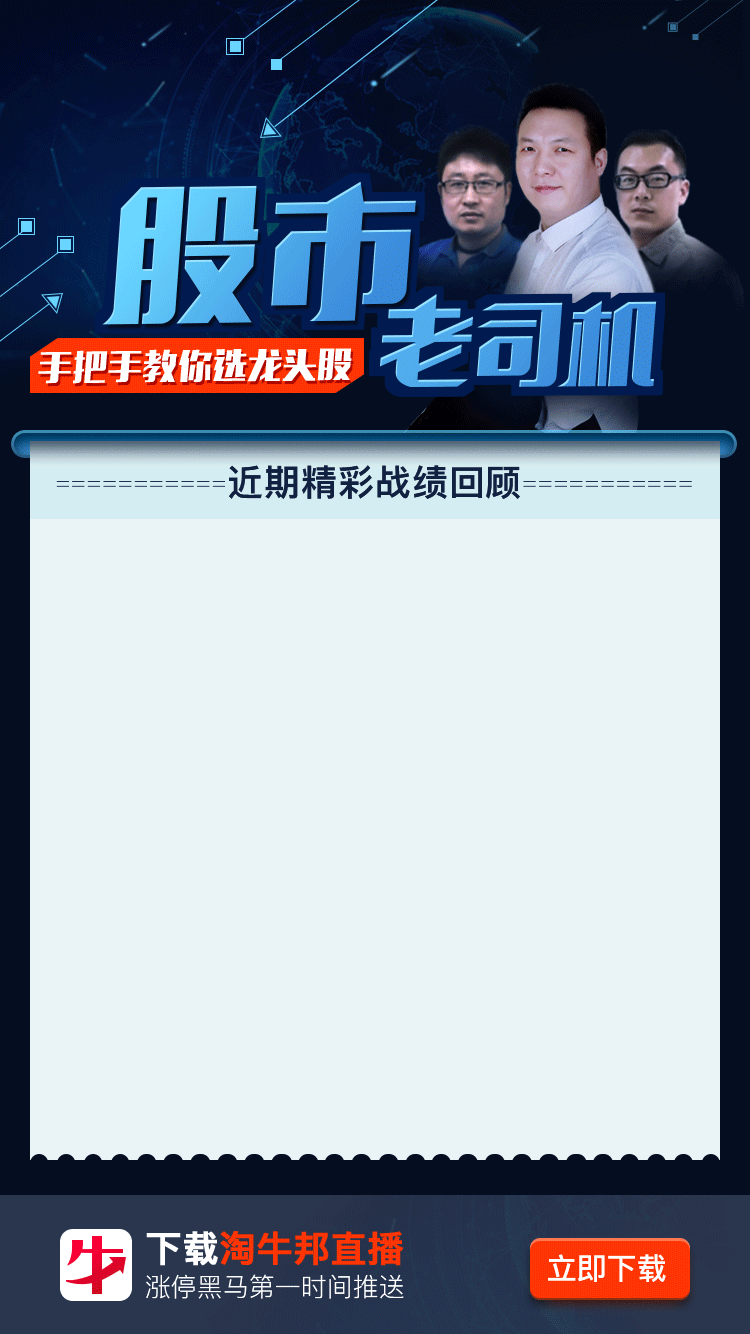
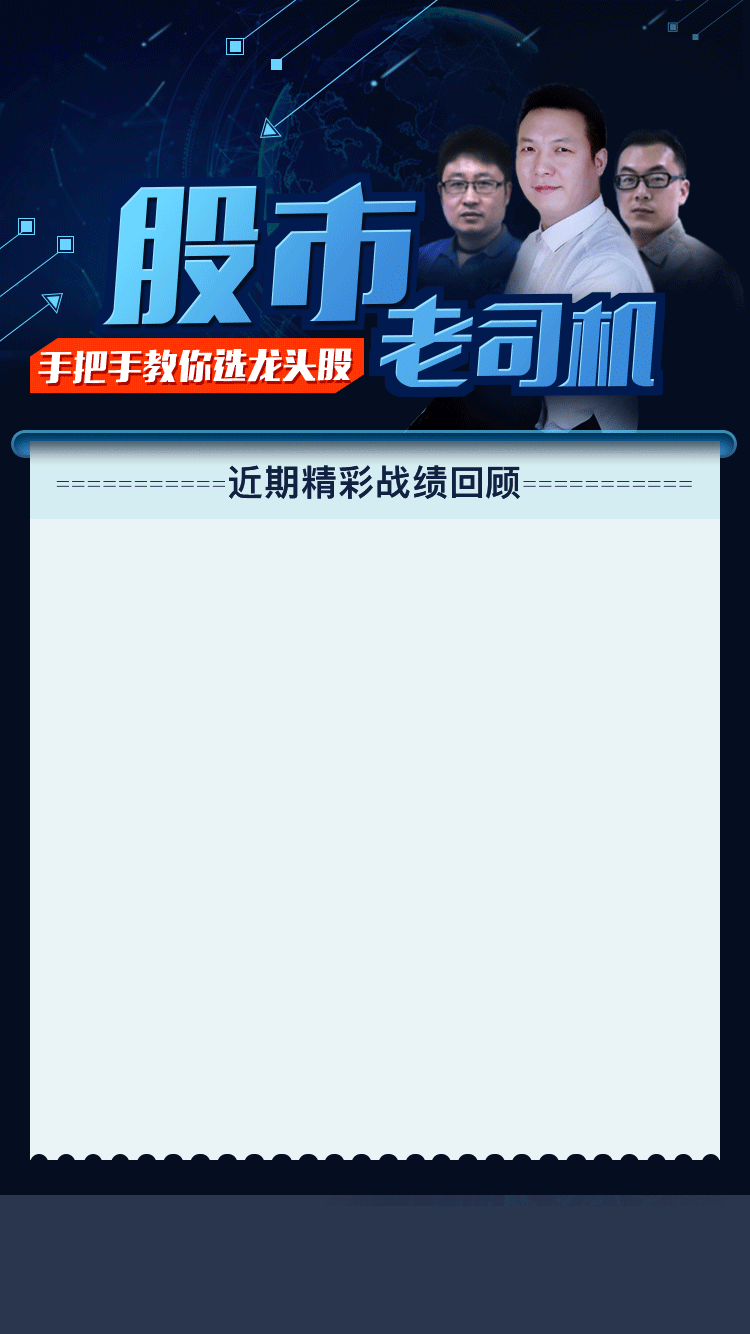
Signed-off-by: 2358326540 <235832654o@163.com>

Changed region(s): [[0.0613, 0.922, 0.552, 0.9835], [0.7053, 0.922, 0.92, 0.9835]]

diff --git a/移动专题/629专题内页 - 副本.html b/移动专题/629专题内页 - 副本.html
@@ -5,44 +5,56 @@
 <meta charset="utf-8">
 <title></title>
 <style>
+
 *{ padding:0 ; margin:0;font-family:"Hiragino Sans GB","Microsoft Yahei","微软雅黑",arial,"Helvetica Neue",Helvetica,STHeiTi,sans-serif;}
 input[type="button"], input[type="submit"], input[type="reset"] {-webkit-appearance: none;}
 img{ vertical-align:middle;}
 html,body{ margin:0 auto; width:100%; height:100%;}
-.btn1{ background:url(images/neiyebg.png) no-repeat center; background-size:100%; position:relative;  width:100%; height:100%;}
-.btn{ position:absolute; z-index:100; bottom:2.62%; width:21.33%; height:4.49%; right:8%; background:url(images/btnbg.png) no-repeat; color:#fff; text-align:center; background-size:100%; line-height:40px;}
-.neirong{ position:absolute; z-index:1; top:25.49%; left:6%; width:88%; height:58.47%; overflow-y:scroll;}
+.btn1{position:relative;  width:100%; height:100%;}
+
+
+.btn{ position:absolute; z-index:100; bottom:18%; width:21.33%; height:27%; right:8%;}
+.neirong{ position:absolute; z-index:1; top:26%; background:url(images/629zhuanti_02.png) repeat-y; background-size:100%; left:0;  width:100%; height:62%; overflow-y:scroll;}
 .neirongn{ height:auto; }
 .time{ font-size:18px; padding: 8px 0 0px; color:#596a8e;}
 .neirongn p{ font-size:20px; color:#102040; line-height:1.3em;}
-.nrlist{ border-bottom:1px dashed #666; padding: 0 0 10px;}
+.nrlist{ border-bottom:1px dashed #666; padding: 0 0 10px; width:88%; margin:0 auto;}
 .neirongn b{ color:#ff3600;}
 .neirongn b i{ font-size:28px;}
 .look{ text-align:right; padding:3px 0 0 ;}
 .look a{ background:#e33000; color:#fff; display:inline-block; line-height:34px; width:120px; text-align:center; height:34px;  font-size:20px; border-radius:999px;}
-.bottomimg{ position:absolute; z-index:1; left:0; bottom:0; width:100%; height:89px;}
+.bottomimg{ position:fixed; z-index:1; left:0; bottom:0; width:100%; height:17%; background:url(images/beiyebg_05.png) no-repeat; background-size:100%;}
 .bottomimg img{ width:100%; height:100%;}
-.touxiangl{ position:absolute; z-index:1; left:26px; top:96px; width:17.33%; height:9.75%; border-radius:130px; overflow:hidden;}
+
+.top{ position:fixed; top:0; z-index:1; left:0; width:100%; height:40%;}
+.top img{ width:100%; height:100%;}
+.touxiang{ height:26%; width:100%;position:absolute; z-index:1; top:0; left:0;}
+.touxiang>img{ width:100%; height:100%;}
+.touxiangl{  position:absolute; z-index:1;left:26px; top:96px; width:17.33%; height:42.70%; border-radius:130px; overflow:hidden;}
 .touxiangl img{ width:100%; height:100%;}
-.touxiangr{ width:68.54%; top:96px; right:26px;position:absolute; z-index:1;font-size:20px; color:#102040;}
+.touxiangr{ width:68.54%; top:96px; right:26px;position:absolute; z-index:1;font-size:22px; color:#102040;}
 .touxiangr strong{ font-size:26px;}
 .touxiangr b{ color:#ff3600;}
+.neirong2{ background-image:url(images/neiyebgzhuanti_03.png);}
 .touxiangr span{ font-size:16px; float:right; margin: 6px 10px 0 0; color:#596a8e;}
 .djtp img{ width:100%; margin:20px 0 0 0; }
+.djjt{ width:88%; margin:0 auto;}
 .djjt p{ padding:40px 0 0 0; font-size:26px;}
 .contet{ line-height:1.5em; font-size:22px; padding:10px 0 0 0;}
 .float{ float:left;}
-.logo{ width:50px; height:50px; margin: 0 0 0 36px; padding:20px 0 0 0; }
-.yqm{ width:42.66%;}
+.logo{ width:50px; height:50px; margin: 0 0 0 36px; padding:14% 0 0 0; }
+.yqm { width: 42.66%; padding: 10.5% 0 0 0;}
 .yqm p{ color:#fff; padding: 0 0 0 10px;}
 .xzby b{ color:#ff3600;}
 .xzby{ color:#fff; font-size:26px; padding:14px 0 0 10px;}
+.btn{ background:url(images/btnbg.png); color:#fff; background-size:100%; text-align:center; line-height:2.4em;}
 </style>
 
 </head>
 <body>
 <div class="btn1">
 	<div class="touxiang">
+    	<img src="images/neiyebgzhuanti_01.png">
     	<div class="touxiangl"><img src="images/bottombne_02.png"></div>
         <div class="touxiangr">
         	<p><strong>法海看盘直播室</strong> <span>2016-6-14</span></p>
@@ -52,13 +64,18 @@ html,body{ margin:0 auto; width:100%; height:100%;}
     
     
     </div>
-	<div class="neirong">
+	<div class="neirong neirong2">
     		<div class="neirongn">
             	<div class="djjt">
             	<p><strong>当时的点金截图：</strong></p>
               	<div class="djtp"><img src="images/bottombne_02.png"></div>
             	<p><strong>点金分析：</strong></p>
                 <div class="contet">
+                	该股启动的比一般的股早，黄线十字坐标是5月20日，当天大盘还在震荡中，而该股已经提前启动做了涨停板的主力攻击动作，随后旗型整理
+                	该股启动的比一般的股早，黄线十字坐标是5月20日，当天大盘还在震荡中，而该股已经提前启动做了涨停板的主力攻击动作，随后旗型整理
+                	该股启动的比一般的股早，黄线十字坐标是5月20日，当天大盘还在震荡中，而该股已经提前启动做了涨停板的主力攻击动作，随后旗型整理
+                	该股启动的比一般的股早，黄线十字坐标是5月20日，当天大盘还在震荡中，而该股已经提前启动做了涨停板的主力攻击动作，随后旗型整理
+                	该股启动的比一般的股早，黄线十字坐标是5月20日，当天大盘还在震荡中，而该股已经提前启动做了涨停板的主力攻击动作，随后旗型整理
                 	该股启动的比一般的股早，黄线十字坐标是5月20日，当天大盘还在震荡中，而该股已经提前启动做了涨停板的主力攻击动作，随后旗型整理
                 
                 
@@ -72,9 +89,10 @@ html,body{ margin:0 auto; width:100%; height:100%;}
     
     </div>
 
-<a class="btn">立即下载</a>
 <div class="bottomimg">
+
 	<div class="float logo"><img src="images/logo.png"></div>
+	<a class="btn"></a>
 
 	<div class="float yqm"><div class="xzby">下载<b>淘牛邦直播</b></div> <p>填写邀请码1106免费诊股</p></div> </div>
 

diff --git a/移动专题/629专题 - 副本.html b/移动专题/629专题 - 副本.html
@@ -8,22 +8,26 @@
 *{ padding:0 ; margin:0;font-family:"Hiragino Sans GB","Microsoft Yahei","微软雅黑",arial,"Helvetica Neue",Helvetica,STHeiTi,sans-serif;}
 input[type="button"], input[type="submit"], input[type="reset"] {-webkit-appearance: none;}
 img{ vertical-align:middle;}
-html,body{ margin:0 auto; width:480px; height:853px;}
-.btn1{ background:url(images/629zhuanti.png) no-repeat center; background-size:100%; position:relative;  width:100%; height:100%;}
-.btn{ position:absolute; z-index:100; bottom:2.62%; width:21.33%; height:4.49%; right:8%;}
-.neirong{ position:absolute; z-index:1; top:39.13%; left:6%; width:88%; height:47.23%; overflow-y:scroll;}
+html,body{ margin:0 auto; width:100%; height:100%;}
+.btn1{  position:relative;  width:100%; height:100%;}
+
+
+.btn{ position:absolute; z-index:100; bottom:18%; width:21.33%; height:32.49%; right:8%;}
+.neirong{ position:absolute; z-index:1; top:40%; background:url(images/629zhuanti_02.png) repeat-y; background-size:100%; left:0;  width:100%; height:47.23%; overflow-y:scroll;}
 .neirongn{ height:auto; }
 .time{ font-size:18px; padding: 8px 0 0px; color:#596a8e;}
 .neirongn p{ font-size:20px; color:#102040; line-height:1.3em;}
-.nrlist{ border-bottom:1px dashed #666; padding: 0 0 10px;}
+.nrlist{ border-bottom:1px dashed #666; padding: 0 0 10px; width:88%; margin:0 auto;}
 .neirongn b{ color:#ff3600;}
 .neirongn b i{ font-size:28px;}
 .look{ text-align:right; padding:3px 0 0 ;}
 .look a{ background:#e33000; color:#fff; display:inline-block; line-height:34px; width:120px; text-align:center; height:34px;  font-size:20px; border-radius:999px;}
-.bottomimg{ position:fixed; z-index:1; left:0; bottom:0; width:100%; height:10.42%;}
+.bottomimg{ position:fixed; z-index:1; left:0; bottom:0; width:100%; height:15%;}
 .bottomimg img{ width:100%; height:100%;}
 .fuceng{ background:rgba(0,0,0,0.8); text-align:center; width:100%; height:100%; position:fixed; z-index:9999; left:0; top:0;}
 .fuceng img{ width:95%; margin:38.98% 0 0 0;}
+.top{ position:fixed; top:0; z-index:1; left:0; width:100%; height:40%;}
+.top img{ width:100%; height:100%;}
 </style>
 </head>
 <body>
@@ -33,6 +37,7 @@ html,body{ margin:0 auto; width:480px; height:853px;}
 
 </div>
 <div class="btn1">
+	<div class="top"><img src="images/629zhuanti_01.png"></div>
 	<div class="neirong">
     		<div class="neirongn">
             	<div class="nrlist">
@@ -103,7 +108,7 @@ html,body{ margin:0 auto; width:480px; height:853px;}
 
 
 <div class="bottomimg"><a class="btn"></a>
-<img src="images/bottombne_02.png"></div>
+<img src="images/629zhuanti_03.png"></div>
 
 </div>
 

diff --git a/爱之路/css/aizhilu.css b/爱之路/css/aizhilu.css
@@ -2284,3 +2284,10 @@ li.dpszbtn{ padding: 20px 0 0 65px;}
 
 .serarchjg{ background:#000; color:#fff; text-align:center; font-size:26px; line-height:49px; width:1200px; margin:15px auto;}
 
+/* 加盟商 */
+
+.jmsban{ background:url(../images/jiamengshangguanggao.png) no-repeat; height:370px;}
+
+
+
+

diff --git a/爱之路/加盟商页.html b/爱之路/加盟商页.html
@@ -18,12 +18,11 @@
   </div>
 </div>
 
+<div class="tladgg jmsban"><a></a></div>
 
 
 
 
-
-    <div class="serarchjg">搜索结果</div>
 <div class="splbfl clearfix">
 	<div class="splbfll">
     	<dl>
